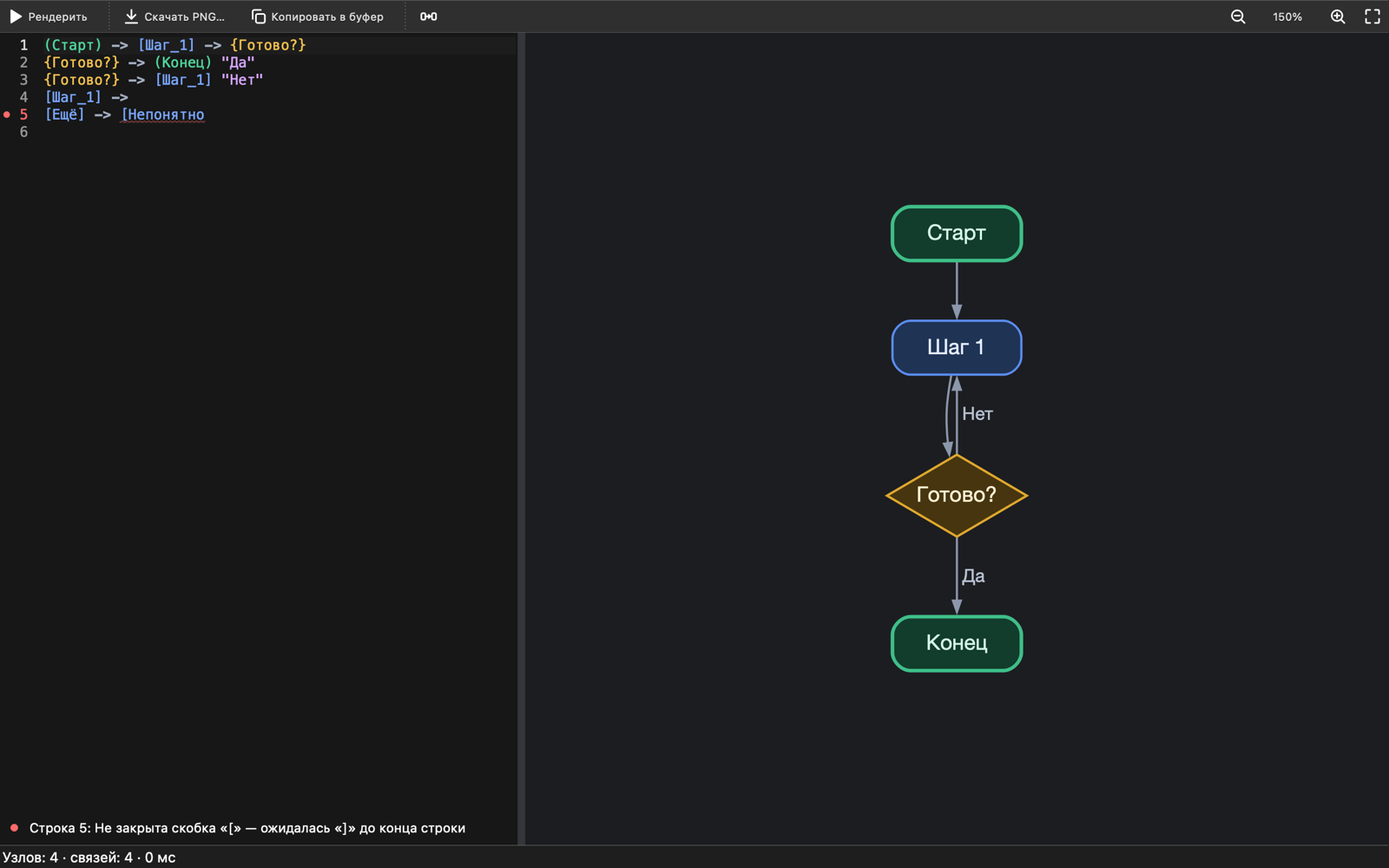
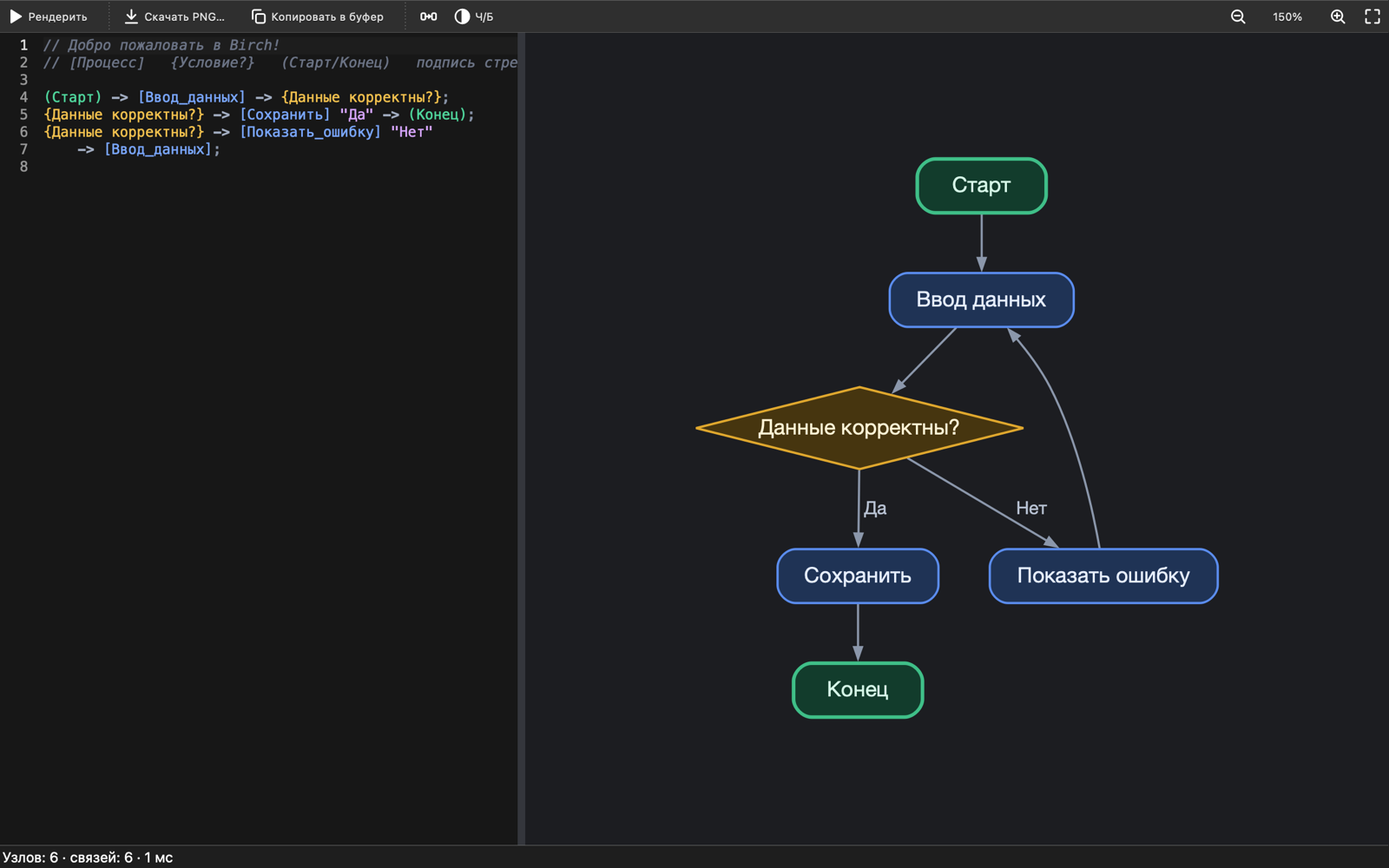
Переписать README под macOS и чёрно-белый режим
- Только macOS: установка из .dmg, сборка через Homebrew, упаковка
- Описан чёрно-белый режим, добавлена таблица горячих клавиш
- Новые скриншоты: светлая и тёмная темы, чёрно-белый режим

diff --git a/README.md b/README.md
@@ -1,8 +1,8 @@
 # Birch
 
-Десктопное приложение, которое строит блок-схемы по текстовому описанию. Без ИИ и без интернета: текст разбирает собственный парсер, раскладку и стрелки делает [Graphviz](https://graphviz.org), интерфейс написан на Qt 6. Работает на macOS, Windows и Linux.
+Приложение для macOS, которое строит блок-схемы по текстовому описанию. Без ИИ и без интернета: текст разбирает собственный парсер, раскладку и стрелки делает [Graphviz](https://graphviz.org), интерфейс написан на Qt 6.
 
-![Birch в светлой теме](docs/screenshot-light.png)
+![Birch](docs/screenshot-light.png)
 
 ```text
 (Старт) -> [Ввод_данных] -> {Данные корректны?};
@@ -14,10 +14,27 @@
 
 - Редактор слева, схема справа. Схема перерисовывается автоматически через 300 мс после паузы в наборе; рендер идёт в фоновом потоке, поэтому набор не подвисает.
 - Ошибки подчёркиваются прямо в тексте: строка, позиция и понятное сообщение. Недописанная строка не ломает остальную схему.
-- Интерактивный холст: масштаб через ⌘/Ctrl + колесо или щипок на трекпаде, прокрутка перетаскиванием, двойной щелчок вписывает схему в окно. Схема выводится как вектор и остаётся чёткой при любом масштабе.
-- **Скачать PNG** (⌘/Ctrl+E) и **Копировать в буфер** (⌘/Ctrl+Shift+C): картинку можно сразу вставить в Telegram, Slack, Word или Discord. Есть экспорт в SVG и прозрачный фон.
+- Векторный холст: масштаб через ⌘ + колесо или щипок на трекпаде, прокрутка перетаскиванием, двойной щелчок вписывает схему в окно.
+- **Скачать PNG** (⌘E) и **Копировать в буфер** (⌘⇧C): картинку можно сразу вставить в Telegram, Slack, Pages, Word или Discord. Есть экспорт в SVG и прозрачный фон.
+- **Чёрно-белый режим** (кнопка «Ч/Б», ⌘⇧B): чёрные линии и текст на белом, для печати и документов.
 - Светлая и тёмная темы следуют системной; тему можно выбрать и вручную. Тему картинки можно задать отдельно, например всегда светлую для документов.
-- Файлы `.birch`: открытие, сохранение, открытие двойным щелчком (macOS, Linux). Несохранённый текст восстанавливается при следующем запуске.
+- Файлы `.birch` открываются двойным щелчком в Finder. Несохранённый текст восстанавливается при следующем запуске.
+
+| Тёмная тема | Чёрно-белый режим |
+|---|---|
+| ![Тёмная тема](docs/screenshot-dark.png) | ![Чёрно-белый режим](docs/screenshot-monochrome.png) |
+
+## Установка
+
+Скачайте `.dmg` со страницы [Releases](https://github.com/empmaynmtusrgdyt/Birch/releases), откройте его и перетащите **Birch** в «Программы».
+
+Приложение подписано ad-hoc, а не сертификатом Apple Developer ID, поэтому при первом запуске macOS его заблокирует. Чтобы открыть его один раз, щёлкните по Birch в «Программах» правой кнопкой и выберите **«Открыть»**. Или выполните в Терминале:
+
+```bash
+xattr -dr com.apple.quarantine /Applications/Birch.app
+```
+
+Готовые сборки работают на **Apple Silicon** с той версией macOS, под которую собраны библиотеки Homebrew на сборочной машине (сейчас **macOS 26+**). Для других систем соберите приложение из исходников — см. ниже.
 
 ## Синтаксис
 
@@ -34,122 +51,75 @@
 | `\n` | перенос строки внутри текста |
 | `\]`, `\"`, `\\` | символ как есть |
 
-Одинаковый текст обозначает один и тот же узел. Если узел хоть раз записан как `{…}` или `(…)`, он остаётся этой фигурой, даже если дальше написан как `[…]`. Стрелка `→` и кавычки `«»` и `“”` тоже поддерживаются.
+Одинаковый текст обозначает один и тот же узел. Если узел хоть раз записан как `{…}` или `(…)`, он остаётся этой фигурой, даже если дальше написан как `[…]`. Стрелка `→` и кавычки `«»` и `“”` (их подставляет автозамена macOS) тоже поддерживаются.
 
-## Установка зависимостей
+## Горячие клавиши
 
-Нужны компилятор с C++20, CMake ≥ 3.21, Qt ≥ 6.4 (модули Base и Svg) и Graphviz ≥ 2.42 с заголовками для разработки.
+| Клавиши | Действие |
+|---|---|
+| ⌘↩ или ⌘R | перерисовать схему |
+| ⌘E | скачать PNG |
+| ⌘⇧C | копировать картинку в буфер |
+| ⌘⇧B | чёрно-белый режим |
+| ⌘+ / ⌘− | масштаб |
+| ⌘0 | реальный размер |
+| ⌘9 | по размеру окна |
+| ⌘S / ⌘O / ⌘N | сохранить / открыть / новый файл |
 
-### macOS (Homebrew)
+## Сборка из исходников
+
+Нужны Xcode Command Line Tools, CMake ≥ 3.21, Qt ≥ 6.5 (модули Base и Svg) и Graphviz ≥ 9:
 
 ```bash
 xcode-select --install          # компилятор, если ещё не установлен
 brew install cmake qt graphviz
 ```
 
-### Windows (vcpkg)
-
-1. Установите [Visual Studio 2022](https://visualstudio.microsoft.com/) с рабочей нагрузкой «Разработка классических приложений на C++». CMake входит в её состав.
-2. Установите vcpkg и задайте переменную `VCPKG_ROOT`:
-
-   ```powershell
-   git clone https://github.com/microsoft/vcpkg C:\vcpkg
-   C:\vcpkg\bootstrap-vcpkg.bat
-   setx VCPKG_ROOT C:\vcpkg      # затем откройте новое окно терминала
-   ```
-
-3. Больше ничего ставить не нужно: при первой настройке проекта vcpkg сам соберёт `qtbase`, `qtsvg` и `graphviz` из `vcpkg.json`. Первая сборка Qt занимает 30–60 минут, потом результат берётся из кэша.
-
-<details>
-<summary>Быстрее: Qt из официального установщика</summary>
-
-Установите Qt 6 (MSVC 2022 64-bit, с модулем Qt SVG) через [Qt Online Installer](https://www.qt.io/download-qt-installer) и уберите `qtbase` и `qtsvg` из `vcpkg.json`. Тогда vcpkg соберёт только Graphviz, а путь к Qt передаётся при настройке:
-
-```powershell
-cmake --preset windows-vcpkg -DCMAKE_PREFIX_PATH=C:\Qt\6.8.0\msvc2022_64
-```
-</details>
-
-### Linux (apt)
-
-Ubuntu 24.04+ и Debian 13+:
+Сборка, тесты и запуск:
 
 ```bash
-sudo apt install build-essential cmake ninja-build pkg-config \
-                 qt6-base-dev qt6-svg-dev libgl-dev libgraphviz-dev
-```
-
-В Ubuntu 22.04 и Debian 12 Qt старше 6.4. Поставьте свежий Qt через [Qt Online Installer](https://www.qt.io/download-qt-installer) или `pip install aqtinstall` и передайте путь к нему: `-DCMAKE_PREFIX_PATH=~/Qt/6.8.0/gcc_64`.
-
-Fedora: `sudo dnf install gcc-c++ cmake ninja-build qt6-qtbase-devel qt6-qtsvg-devel graphviz-devel`.
-
-## Сборка и запуск
-
-Для каждой платформы есть пресет CMake (`CMakePresets.json`):
-
-```bash
-# macOS
-cmake --preset macos && cmake --build --preset macos
+cmake --preset macos
+cmake --build --preset macos
+ctest --preset macos
 open build/macos/Birch.app
-
-# Linux
-cmake --preset linux && cmake --build --preset linux
-./build/linux/birch
-
-# Windows (Developer PowerShell для VS 2022)
-cmake --preset windows-vcpkg
-cmake --build --preset windows-vcpkg
-.\build\windows-vcpkg\Release\Birch.exe
 ```
 
 При настройке CMake печатает строку вида `Birch 0.1.0: Qt 6.9.3, Graphviz 16.1.0, builtin plugins: TRUE`. Значение `builtin plugins: TRUE` означает, что плагины Graphviz встроены в приложение и ему не нужен установленный Graphviz во время работы.
 
-Тесты (парсер, рендерер, около 45 проверок) собираются по умолчанию; отключаются флагом `-DBIRCH_BUILD_TESTS=OFF`:
+Тесты (парсер и рендерер, около 50 проверок) собираются по умолчанию; отключаются флагом `-DBIRCH_BUILD_TESTS=OFF`. Файл можно открыть из Терминала: `open -a Birch схема.birch`.
+
+## Сборка .dmg
 
 ```bash
-ctest --test-dir build/macos --output-on-failure
+cd build/macos && cpack          # -> Birch-<версия>-macos-<arch>.dmg
 ```
-
-Файл можно открыть из командной строки: `Birch путь/к/схеме.birch`.
-
-## Упаковка
-
-| Платформа | Команда | Результат |
-|---|---|---|
-| macOS | `cd build/macos && cpack` | `Birch-<версия>-macos-<arch>.dmg` |
-| Windows | `cd build\windows-vcpkg && cpack -C Release` | `.zip`, а при установленном [NSIS](https://nsis.sourceforge.io) (`winget install NSIS.NSIS`) ещё и установщик `.exe` |
-| Linux | `cd build/linux && cpack` | `.tar.gz` и `.deb` (зависимости определяются автоматически) |
-| Linux, переносимый | `./packaging/linux/build-appimage.sh` | `Birch-<версия>-x86_64.AppImage` |
 
 Что происходит при упаковке:
 
-- **macOS.** `macdeployqt` копирует Qt и все библиотеки, включая Graphviz, внутрь `Birch.app`. Затем `packaging/macos/prune-bundle.cmake` удаляет лишнее (QtQuick, QML, PDF-плагин), докопирует то, что `macdeployqt` пропустил, убирает пути машины сборки и **проверяет, что бандл самодостаточен**: если какой-то библиотеки не хватает, упаковка завершится ошибкой, а не выдаст сломанный `.app`. В конце бандл подписывается ad-hoc. Размер `.dmg` около 30 МБ.
-- **Windows.** `windeployqt` копирует Qt; DLL Graphviz и его зависимостей находятся по импортам `Birch.exe`.
-- **Linux.** Стандартная раскладка `/usr`: бинарник `birch`, `.desktop`-файл, иконка, MIME-тип для `.birch`. Для `.deb` и `.tar.gz` библиотеки берутся из системы; AppImage содержит всё внутри.
+1. `macdeployqt` копирует Qt и все библиотеки, включая Graphviz, внутрь `Birch.app`.
+2. `packaging/macos/prune-bundle.cmake` удаляет лишнее (QtQuick, QML, PDF-плагин), докопирует то, что `macdeployqt` пропустил, убирает пути машины сборки и **проверяет, что бандл самодостаточен**: если какой-то библиотеки не хватает, упаковка завершится ошибкой, а не выдаст сломанный `.app`.
+3. Бандл подписывается ad-hoc. Размер `.dmg` около 30 МБ.
 
-### Совместимость пакетов
+**Минимальная версия macOS.** Пакет работает на тех версиях macOS, под которые собраны библиотеки. Homebrew на свежей системе собирает Graphviz под самую новую macOS, поэтому `.dmg` с такой машины на старых системах не запустится. Для широкой совместимости соберите Qt и Graphviz с нужной минимальной версией и передайте `-DCMAKE_OSX_DEPLOYMENT_TARGET=12.0`.
 
-- **macOS.** Пакет работает на тех версиях macOS, под которые собраны библиотеки. Graphviz из Homebrew на свежей системе собран под самую новую macOS, поэтому `.dmg` с такой машины на старых системах не запустится. Для широкой совместимости соберите Qt и Graphviz с нужной минимальной версией (например, через vcpkg с `VCPKG_OSX_DEPLOYMENT_TARGET=12.0`) и передайте `-DCMAKE_OSX_DEPLOYMENT_TARGET=12.0`.
-- **macOS, распространение.** Ad-hoc подписи достаточно для своей машины. Другим пользователям Gatekeeper покажет предупреждение: для распространения подпишите приложение сертификатом Developer ID (замените `-` в `cmake/Packaging.cmake` на имя сертификата) и нотаризуйте через `xcrun notarytool`.
-- **Linux AppImage** работает на дистрибутивах с glibc не старше, чем на сборочной машине. Собирайте на самой старой системе, которую хотите поддерживать.
+**Распространение.** Ad-hoc подписи достаточно для своей машины. Чтобы Gatekeeper не блокировал приложение у других пользователей, подпишите его сертификатом Developer ID (замените `-` в `cmake/Packaging.cmake` на имя сертификата) и нотаризуйте через `xcrun notarytool`.
 
 ## Структура проекта
 
 ```text
 Birch/
-├── CMakeLists.txt            сборка: цели birch_core и Birch, платформенные настройки
-├── CMakePresets.json         пресеты macos / linux / windows-vcpkg
-├── vcpkg.json                зависимости для vcpkg (Windows)
+├── CMakeLists.txt            сборка: цели birch_core и Birch, бандл macOS
+├── CMakePresets.json         пресет macos (configure, build, test)
 ├── cmake/
 │   ├── FindGraphviz.cmake    поиск Graphviz: pkg-config, затем вручную
-│   └── Packaging.cmake       установка, деплой Qt, CPack
+│   └── Packaging.cmake       установка, деплой Qt, .dmg
 ├── src/
 │   ├── main.cpp
 │   ├── core/                 логика без виджетов, покрыта тестами
 │   │   ├── Diagram.h         модель: узлы, связи, фигуры
 │   │   ├── Parser.*          DSL → Diagram, ошибки с позициями
 │   │   ├── Renderer.*        Diagram → Graphviz (cgraph + dot) → SVG → QImage/PNG
-│   │   └── Theme.*           светлая и тёмная палитры схемы
+│   │   └── Theme.*           цветные (светлая, тёмная) и чёрно-белые палитры
 │   ├── app/
 │   │   └── RenderController.*  фоновый рендер, «побеждает последний запрос»
 │   └── ui/
@@ -158,7 +128,9 @@ Birch/
 │       ├── SyntaxHighlighter.*
 │       └── PreviewView.*     интерактивный холст (вектор, зум, прокрутка)
 ├── resources/                иконки интерфейса, пример схемы
-├── packaging/                Info.plist, .rc, .desktop, MIME, AppImage, иконки
+├── packaging/
+│   ├── generate-icons.sh     app.svg → app.icns
+│   └── macos/                Info.plist, иконка, проверка бандла
 ├── tests/                    тесты парсера и рендерера (Qt Test)
 └── docs/                     скриншоты
 ```
@@ -166,18 +138,18 @@ Birch/
 ### Как устроен рендеринг
 
 1. `Parser` превращает текст в `Diagram` и список ошибок. Инструкция применяется целиком или не применяется вовсе, поэтому при наборе схема не «мигает».
-2. `Renderer` строит граф через C++ API Graphviz (`cgraph`), задаёт стили атрибутами (скругления, пастельные цвета, шрифт, стрелки), раскладывает граф движком `dot` и получает SVG через `gvRenderData`.
+2. `Renderer` строит граф через C++ API Graphviz (`cgraph`), задаёт стили атрибутами из `Theme` (скругления, цвета, шрифт, стрелки), раскладывает граф движком `dot` и получает SVG через `gvRenderData`.
 3. Ширину текста для Graphviz измеряет Qt, тем же шрифтом, которым потом рисуется SVG: в Graphviz зарегистрирован собственный плагин `textlayout`. Без него Graphviz оценивает ширину по встроенной таблице, и кириллица вылезает за рамки узлов.
-4. Превью показывает SVG как вектор (`QGraphicsSvgItem`), а экспорт растеризует его в PNG с масштабом 2× для экранов Retina и HiDPI.
+4. Превью показывает SVG как вектор (`QGraphicsSvgItem`), а экспорт растеризует его в PNG с масштабом 2× для Retina.
 
 ## Решение проблем
 
 | Симптом | Что делать |
 |---|---|
-| `Could NOT find Graphviz` | Установите пакет для разработки (`libgraphviz-dev`, `graphviz-devel`) или укажите путь: `-DGRAPHVIZ_ROOT=/путь/к/graphviz`. |
-| `Could NOT find Qt6Svg` / `SvgWidgets` | Установите модуль SVG: `qt6-svg-dev`, `qt6-qtsvg-devel`, в установщике Qt — «Qt SVG». |
-| Ошибка «Layout type: "dot" not recognized» или пустая схема | Плагины Graphviz не встроены (`builtin plugins: FALSE`) и не найдены при запуске. Выполните `dot -c` (на Windows — в папке с `dot.exe`), чтобы Graphviz обновил список плагинов. |
-| После смены параметров CMake ничего не меняется | Значения опций кэшируются: передайте их явно (`-DBIRCH_BUILD_TESTS=ON`) или удалите папку `build/<пресет>`. |
-| macOS: «Birch повреждено» или «не удаётся проверить разработчика» | Пакет подписан ad-hoc. Откройте через контекстное меню → «Открыть» или выполните `xattr -dr com.apple.quarantine /Applications/Birch.app`. Для распространения нужна подпись Developer ID. |
+| `Could NOT find Graphviz` | `brew install graphviz` или укажите путь: `-DGRAPHVIZ_ROOT=/путь/к/graphviz`. |
+| `Could NOT find Qt6Svg` / `SvgWidgets` | `brew install qt` (модуль SVG входит в него) и проверьте, что `CMAKE_PREFIX_PATH` указывает на Homebrew. |
+| `Birch поддерживает только macOS` | Проект собирается только на macOS. |
+| После смены параметров CMake ничего не меняется | Значения опций кэшируются: передайте их явно (`-DBIRCH_BUILD_TESTS=ON`) или удалите папку `build/macos`. |
+| «Birch повреждено» или «не удаётся проверить разработчика» | Пакет подписан ad-hoc. Откройте через контекстное меню → «Открыть» или выполните `xattr -dr com.apple.quarantine /Applications/Birch.app`. |
 
-Иконки приложения (`packaging/macos/app.icns`, `packaging/windows/app.ico`) генерируются из `resources/icons/app.svg` скриптом `packaging/generate-icons.sh`.
+Иконка приложения (`packaging/macos/app.icns`) генерируется из `resources/icons/app.svg` скриптом `packaging/generate-icons.sh`.
